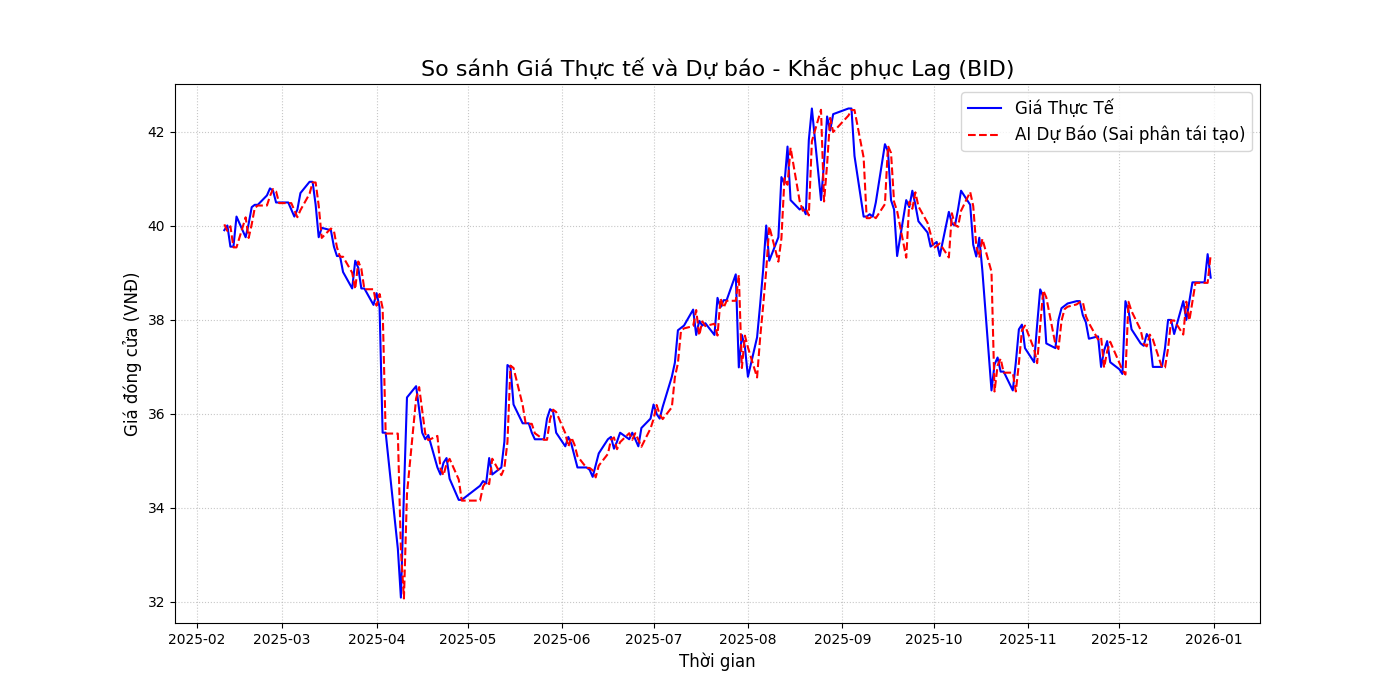
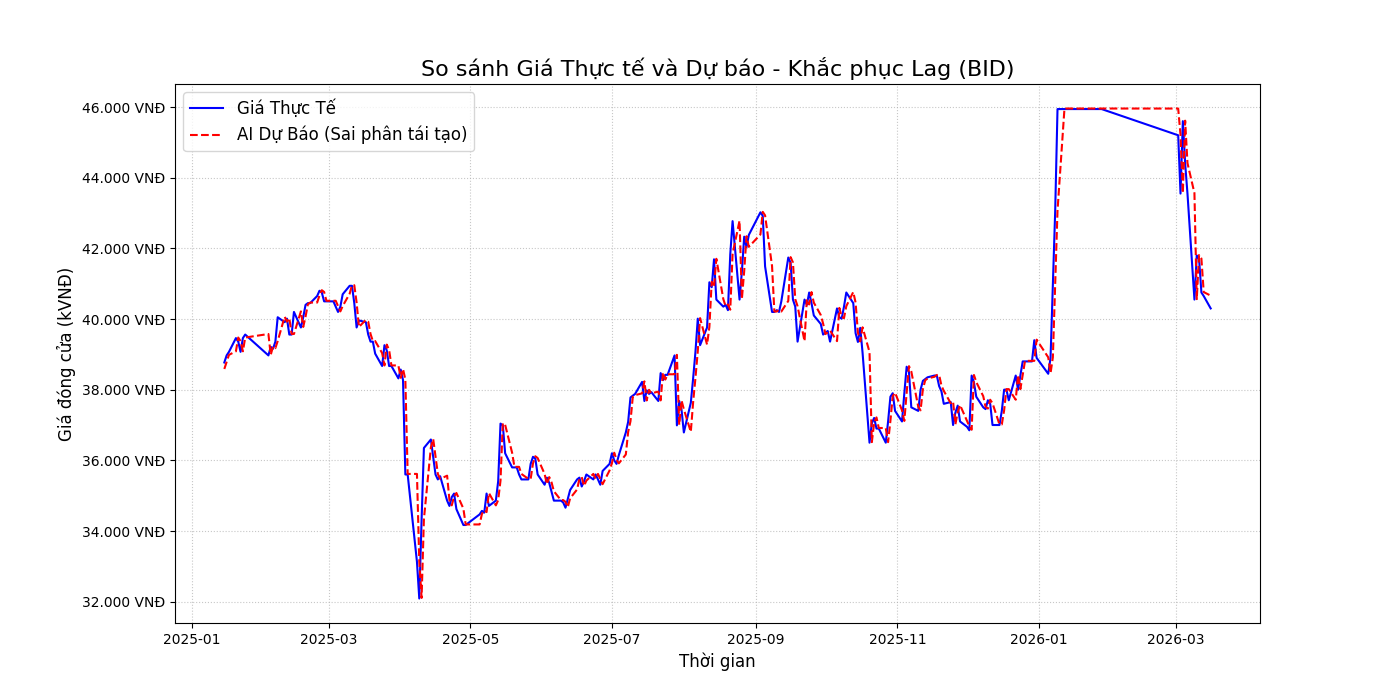
Change unit in evaluate.py

diff --git a/src/model/evaluate.py b/src/model/evaluate.py
@@ -4,6 +4,7 @@ import numpy as np
 import pandas as pd
 import pickle
 import matplotlib.pyplot as plt
+import matplotlib.ticker as mticker
 from sklearn.metrics import mean_squared_error, mean_absolute_error, r2_score
 from tensorflow.keras.models import load_model
 
@@ -34,6 +35,7 @@ def evaluate_model(ticker='VCB'):
     target_values = df[[target_col]].values
     price_values = df[price_col].values
     
+    # Chia dữ liệu thành train, validation và test
     n = len(df)
     val_end = int(n * 0.9)
     
@@ -41,8 +43,10 @@ def evaluate_model(ticker='VCB'):
     test_target = target_values[val_end:]
     test_prices = price_values[val_end:]
     
+    # Lấy ngày tháng cho phần test để vẽ đồ thị
     test_dates = pd.to_datetime(df['time'].iloc[val_end:]).reset_index(drop=True)
     
+    # Tải scaler đã lưu từ quá trình huấn luyện
     with open(f'models/{ticker.lower()}_feature_scaler.pkl', 'rb') as f:
         feature_scaler = pickle.load(f)
     with open(f'models/{ticker.lower()}_target_scaler.pkl', 'rb') as f:
@@ -53,26 +57,28 @@ def evaluate_model(ticker='VCB'):
     
     X_test, _ = create_sequences(scaled_test_data, scaled_test_target, window_size=30)
     
+    # Tải mô hình đã huấn luyện
     model = load_model(f'models/cnn_lstm_attn_{ticker.lower()}_v1.h5', 
                        custom_objects={'AttentionLayer': AttentionLayer})
     
-    # 1. AI đưa ra mức dự báo chênh lệch (Delta P)
+    # Step 1: AI đưa ra mức dự báo chênh lệch (Delta P)
     predicted_scaled_diff = model.predict(X_test)
     predicted_diff = target_scaler.inverse_transform(predicted_scaled_diff).flatten()
     
-    # 2. TOÁN TÁI TẠO (Reconstruction): 
+    # Step 2: Toán tái tạo (Reconstruction): 
     # Giá dự báo hôm nay = Giá thực tế hôm qua + Mức chênh lệch AI đoán
     previous_prices = test_prices[29 : 29 + len(predicted_diff)]
     actual_prices = test_prices[30 : 30 + len(predicted_diff)] # Ground truth
     
     predicted_prices = previous_prices + predicted_diff
     
+    # Step 3: Đánh giá hiệu suất với các chỉ số RMSE, MAE, R² và MAPE
     rmse = np.sqrt(mean_squared_error(actual_prices, predicted_prices))
     mae = mean_absolute_error(actual_prices, predicted_prices)
     r2 = r2_score(actual_prices, predicted_prices)
     mape = np.mean(np.abs((actual_prices - predicted_prices) / actual_prices)) * 100
     
-    plot_dates = test_dates[30 : 30 + len(predicted_diff)]
+    plot_dates = test_dates[30 : 30 + len(predicted_diff)] # Ngày tháng tương ứng với phần test đã tái tạo
     
     print("\n" + "="*40)
     print(f"KẾT QUẢ ĐÁNH GIÁ ĐÃ KHẮC PHỤC ĐỘ TRỄ ({ticker})")
@@ -87,13 +93,17 @@ def evaluate_model(ticker='VCB'):
     plt.plot(plot_dates, actual_prices, color='blue', label='Giá Thực Tế')
     plt.plot(plot_dates, predicted_prices, color='red', linestyle='--', label='AI Dự Báo (Sai phân tái tạo)')
     
-    plt.title(f'So sánh Giá Thực tế và Dự báo - Khắc phục Lag ({ticker})', fontsize=16)
+    plt.title(f'So sánh Giá Thực tế và Dự báo({ticker})', fontsize=16)
     plt.xlabel('Thời gian', fontsize=12)
     plt.ylabel('Giá đóng cửa (VNĐ)', fontsize=12)
     plt.legend(fontsize=12)
     plt.grid(True, linestyle=':', alpha=0.7)
     
     plot_path = f'models/{ticker.lower()}_final_plot.png'
+    ax = plt.gca() # Định dạng trục y để hiển thị giá theo chuẩn VNĐ
+    formatter = mticker.FuncFormatter(lambda x, pos: f"{int(x * 1000):,} VNĐ".replace(',', '.'))
+    ax.yaxis.set_major_formatter(formatter)
+    
     plt.savefig(plot_path)
     plt.show()
 

diff --git a/src/model/train.py b/src/model/train.py
@@ -22,21 +22,21 @@ def train_model(ticker='VCB'):
     
     df = pd.read_csv(f'data/processed/{ticker}_features.csv')
     
-    # KỸ THUẬT CỐT LÕI: Tạo biến mục tiêu là Sự chênh lệch giá (Sai phân)
+    # Tạo biến mục tiêu là Sự chênh lệch giá (Sai phân)
     df['price_diff'] = df['close_winsorized'].diff()
     df.dropna(inplace=True) # Xóa dòng NaN đầu tiên do phép trừ
     df.reset_index(drop=True, inplace=True)
     
-    # Sử dụng 8 đặc trưng gốc làm bệ phóng
+    # Sử dụng 8 đặc trưng gốc và biến mục tiêu là price_diff
     features = ['open', 'high', 'low', 'close_winsorized', 'volume', 'sma_10', 'sma_20', 'rsi_14']
-    target_col = 'price_diff' # AI giờ sẽ học cách dự báo biến động
+    target_col = 'price_diff' # Biến mục tiêu là sự chênh lệch giá
     
     data_values = df[features].values
     target_values = df[[target_col]].values
     
     n = len(df)
-    train_end = int(n * 0.8)
-    val_end = int(n * 0.9)
+    train_end = int(n * 0.8) # 80% dữ liệu dùng để huấn luyện
+    val_end = int(n * 0.9) # 10% tiếp theo dùng để validation, 10% cuối cùng để test
     
     train_data = data_values[:train_end]
     val_data = data_values[train_end:val_end]
@@ -52,17 +52,19 @@ def train_model(ticker='VCB'):
     scaled_val_data = feature_scaler.transform(val_data)
     scaled_val_target = target_scaler.transform(val_target)
     
+    # Lưu scaler để tái sử dụng khi đánh giá và dự báo
     os.makedirs('models', exist_ok=True)
     with open(f'models/{ticker.lower()}_feature_scaler.pkl', 'wb') as f:
         pickle.dump(feature_scaler, f)
     with open(f'models/{ticker.lower()}_target_scaler.pkl', 'wb') as f:
         pickle.dump(target_scaler, f)
         
+    # Tạo chuỗi dữ liệu cho mô hình LSTM-Attention
     window_size = 30
     X_train, y_train = create_sequences(scaled_train_data, scaled_train_target, window_size)
     X_val, y_val = create_sequences(scaled_val_data, scaled_val_target, window_size)
     
-    # Khởi tạo nguyên bản kiến trúc CNN-LSTM-Attention
+    # Khởi tạo CNN-LSTM-Attention 
     model = build_cnn_lstm_attention_model((window_size, len(features)))
     
     early_stop = EarlyStopping(monitor='val_loss', patience=20, restore_best_weights=True, verbose=1)
@@ -82,6 +84,8 @@ if __name__ == "__main__":
     tickers = ['VCB', 'BID', 'CTG']
     for ticker in tickers:
         print(f"\n{'='*50}")
-        print(f"BẮT ĐẦU HUẤN LUYỆN TỰ ĐỘNG CHO MÃ: {ticker}")
+        print(f"Bắt đầu huấn luyện cho mã: {ticker}")
         print(f"{'='*50}\n")
         train_model(ticker)
+        
+# python src\model\train.py (command to run the training)

diff --git a/src/model/architecture.py b/src/model/architecture.py
@@ -30,7 +30,7 @@ def build_cnn_lstm_attention_model(input_shape):
     # Tích hợp Attention
     x = AttentionLayer(name="Attention_Layer")(x)
     
-    # Tầng kết nối với Dropout 0.2 theo đúng khóa luận
+    # Tầng kết nối với Dropout 0.2
     x = Dense(units=32, activation='relu', name="Dense_Layer")(x)
     x = Dropout(0.2, name="Dropout_1")(x)
     outputs = Dense(units=1, activation='linear', name="Output_Layer")(x)
@@ -43,3 +43,5 @@ def build_cnn_lstm_attention_model(input_shape):
                   metrics=['mae'])
     
     return model
+
+# python src\model\architecture.py (file to define the model architecture)
